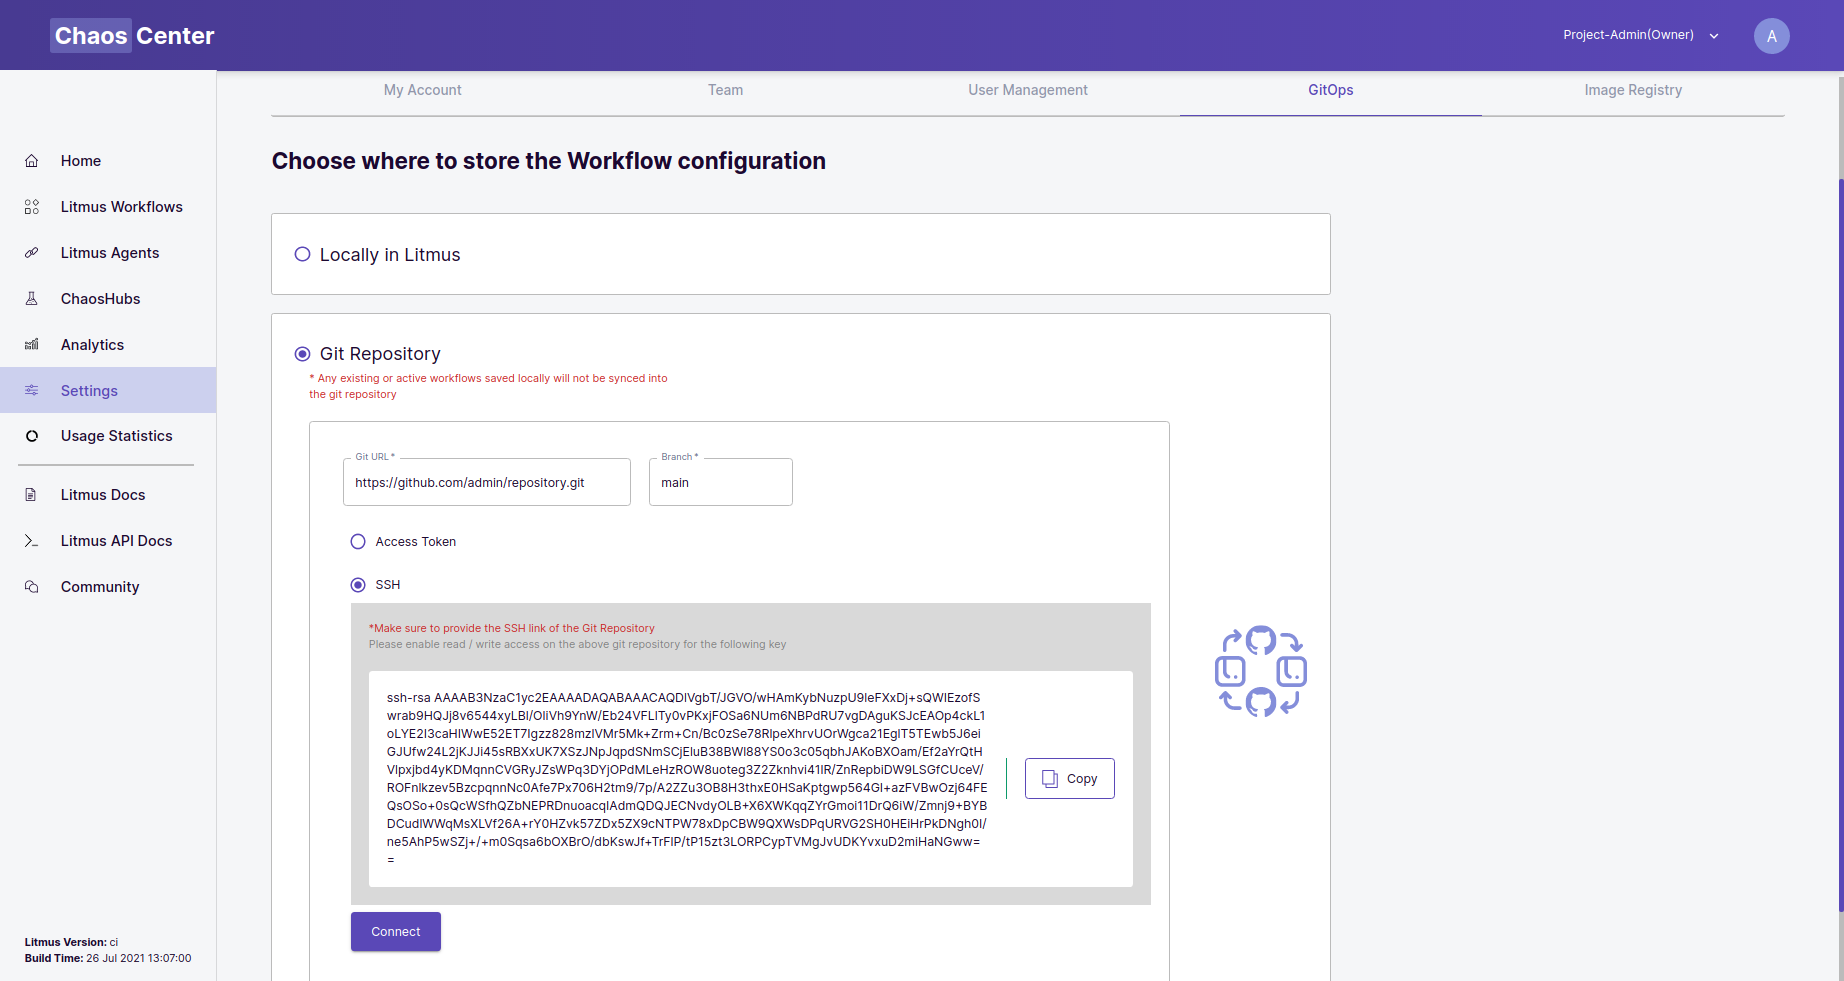
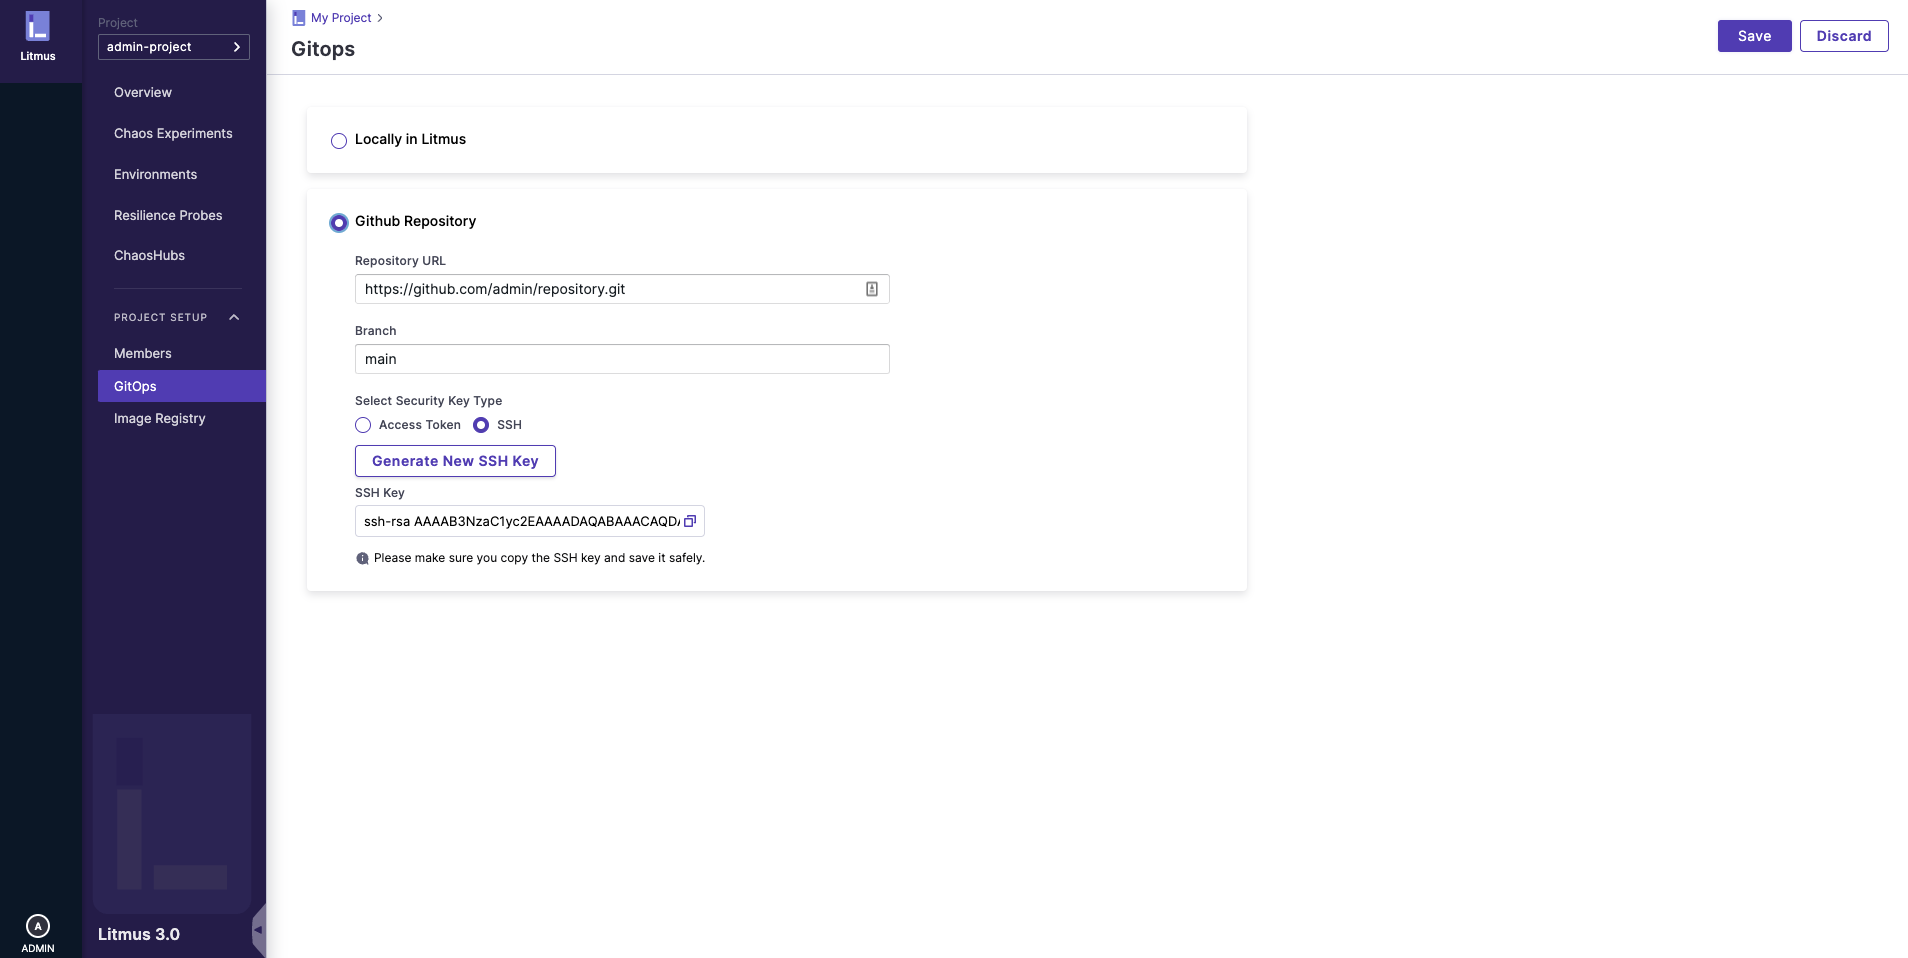
Added gitOps updated user guide

Changed region(s): [[0.0, 0.0, 1.0, 1.0]]

diff --git a/website/versioned_docs/version-3.0.0/user-guides/gitops-configuration.md b/website/versioned_docs/version-3.0.0/user-guides/gitops-configuration.md
@@ -6,42 +6,42 @@ sidebar_label: Configuring GitOps
 
 ## Introduction
 
-GitOps enables you to configure a single source of truth for your chaos scenarios and experiments, any changes made either to the artifacts stored in the configured git repository or the portal will be synced.
+GitOps enables you to configure a single source of truth for your chaos experiment and faults, any changes made either to the artifacts stored in the configured git repository or the portal will be synced.
 
 ## Before you begin
 
 - [Gitops](../concepts/gitops.md)
-- Chaos Delegate
-- [Chaos Scenario](../concepts/chaos-workflow.md)
+- [Chaos Infrastructure](../concepts/infrastructure.md)
+- [Chaos Experiment](../concepts/chaos-workflow.md)
 - Ensure that you have an active internet connection and a git repository.
 
 ## Steps to configure GitOps
 
-- Setup a git repository, so that the ChaosCenter can sync with it, and push all the chaos scenarios in that repository.
+- Setup a git repository, so that the ChaosCenter can sync with it, and push all the chaos experiments in that repository.
 - The git repo can be public or private but for authorization, you have to provide an access token or any other mode of authentication.
-- Login into ChaosCenter, go to `GitOps` tab under `Settings`.
+- Login into ChaosCenter, go to `GitOps` (Project Setup > GitOps on the left nav).
   <br/><br/>
   <img src={require('../assets/user-guides/gitops/gitops.png').default} width="800" />
   <br/><br/>
 - Select the `Git Repository` radio button.
-- Copy the git URL of your git repository and paste it in the `Git URL` text box.
-- Enter the branch where you want to sync your chaos scenarios.
+- Copy the git URL of your git repository and paste it in the `Repository URL` text box.
+- Enter the branch where you want to sync your chaos experiments.
   <br/><br/>
   <img src={require('../assets/user-guides/gitops/gitops-config.png').default} width="800" />
   <br/><br/>
 - You can allow access of your repository either through an access token or through an SSH key.
-- In the case of the SSH key, just copy the key and paste it in the`Deploy Keys` Tab inside `Settings` in your git - repository. Click on the allow write access checkbox, and then on the `Add key` button.
-- Go back to the portal and click on the update button. A modal will pop up showing, `Successfully updated GitOps!` message.
+- In the case of the SSH key, click the button `Generate New SSH Key` and just copy the key and paste it in the `Deploy Keys` Tab inside `Settings` in your git - repository. Click on the allow write access checkbox, and then on the `Add key` button.
+- Go back to the portal and click on the `Save` button. A snackbar will pop up showing, `Successfully updated GitOps!` message.
 - Some metadata will be pushed to your repository, that is the projectID of your project.
-- Now whenever you schedule a chaos scenario, it will automatically be pushed to your repository. And that repository will be the single source of truth.
+- Now whenever you schedule a chaos experiment, it will automatically be pushed to your repository. And that repository will be the single source of truth.
 
 :::note
-It is also possible to account for the chaos scenarios that are created and pushed to the git repository directly, after configuring GitOps. In this case, if the chaos scenario is a single run chaos scenario, then it starts executing as soon as it is pushed to the repository. Alternatively, if the chaos scenario is a scheduled chaos scenario, then it executes as per the defined schedule. On the other hand, updating an existing chaos scenario present in the git repository will not execute the chaos scenario but only sync the chaos scenario resource definition with the ChaosCenter, if applicable.
+It is also possible to account for the chaos experiments that are created and pushed to the git repository directly, after configuring GitOps. In this case, if the chaos experiment is a single run chaos experiment, then it starts executing as soon as it is pushed to the repository. Alternatively, if the chaos experiment is a scheduled chaos experiment, then it executes as per the defined schedule. On the other hand, updating an existing chaos experiment present in the git repository will not execute the chaos experiment but only sync the chaos experiment resource definition with the ChaosCenter, if applicable.
 :::
 
 ## Steps to configure Event-Triggered Chaos Injection
 
-- Once the chaos scenario is pushed to your repository, you’ll notice every chaos scenario has a `workflow_id`. You can get this from the chaos scenario YAML file. You need to copy the id and annotate the target application so that if there’s any change in the application, gitops will sync the chaos scenario using this workflow_id and run it on your target application. You can use the following command:
+- Once the chaos experiment is pushed to your repository, you’ll notice every chaos experiment has a `workflow_id`. You can get this from the chaos experiment YAML file. You need to copy the id and annotate the target application so that if there’s any change in the application, gitops will sync the chaos experiment using this workflow_id and run it on your target application. You can use the following command:
 
 ```
 kubectl annotate deploy/target-application litmuschaos.io/workflow=${workflow_id}
@@ -64,9 +64,9 @@ kubectl logs -f event-tracker-pod-name -n litmus
 ```
 
 In the logs, you’ll notice that the event-tracker has started.
-If you make changes in the application the event tracker will trigger the chaos injection. If the policy conditions are met then the event tracker will inform the server to schedule a chaos scenario in that same target. For eg: if you have an Nginx app as your target application, you can just edit the deployment and change its image tag, this will trigger the chaos injection.
+If you make changes in the application the event tracker will trigger the chaos injection. If the policy conditions are met then the event tracker will inform the server to schedule a chaos experiment in that same target. For eg: if you have an Nginx app as your target application, you can just edit the deployment and change its image tag, this will trigger the chaos injection.
 
-Below is a sample policy where two conditions are present and will be validated by the respective operator. The chaos scenario will be triggered if both conditions are met due to the `AND` condition type.
+Below is a sample policy where two conditions are present and will be validated by the respective operator. The chaos experiment will be triggered if both conditions are met due to the `AND` condition type.
 
 ```
 apiVersion: eventtracker.litmuschaos.io/v1
@@ -96,13 +96,7 @@ Currently supported policy operators are:
 - GreaterThanEqualTo
 - LessThanEqualTo
 
-## Resources
-
-<iframe width="560" height="315" src="https://www.youtube.com/embed/7cF3rwcZMcA" title="YouTube video player" frameborder="0" allow="accelerometer; autoplay; clipboard-write; encrypted-media; gyroscope; picture-in-picture" allowfullscreen></iframe>
-<br/><br/>
-<iframe width="560" height="315" src="https://www.youtube.com/embed/uIVrNH2_nVI" title="YouTube video player" frameborder="0" allow="accelerometer; autoplay; clipboard-write; encrypted-media; gyroscope; picture-in-picture" allowfullscreen></iframe>
-
 ## Learn More
 
-- [Schedule a chaos scenario](../user-guides/schedule-experiment.md)
-- [Observe a Chaos Scenario](../user-guides/observe-experiment.md)
+- [Schedule a chaos experiment](../user-guides/schedule-experiment.md)
+- [Observe a Chaos experiment](../user-guides/observe-experiment.md)
